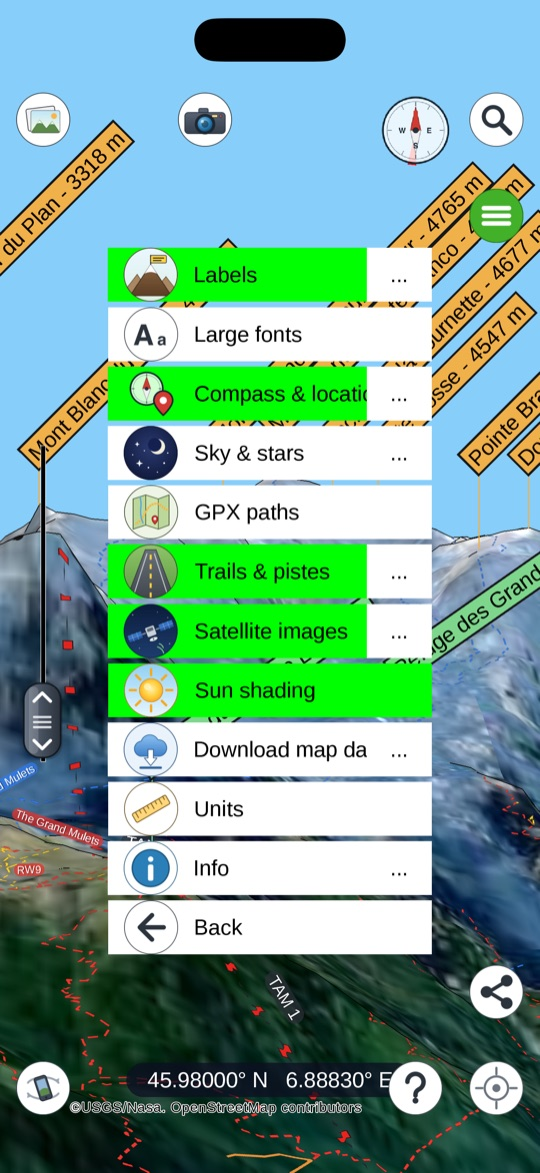
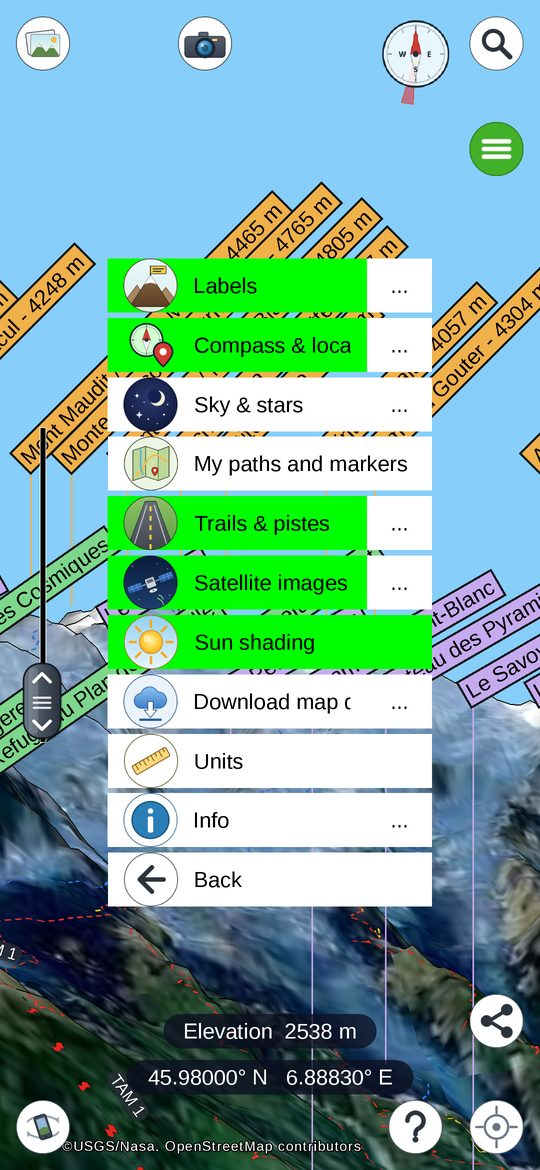
"Large fonts" moves into the Labels submenu; the tutorial shows the current menu
The size of the labels' text belongs with the labels it sizes. It is the last
option of the Labels submenu now, before Back, and the main menu has one
button fewer.

The tutorial's options slide showed a menu two versions old ("Large fonts" in
the main menu, "GPX paths"). The new picture is the same view, Mont Blanc from
Lac Blanc, rendered by the app on LANDSAT imagery (credited USGS/Nasa), with
the menu as it is now.

Claude-Session: https://claude.ai/code/session_018EoCeqjtKdapkfrYRrfFrS

diff --git a/core/src/main/java/com/peaknav/viewer/panes/OptionPane.java b/core/src/main/java/com/peaknav/viewer/panes/OptionPane.java
@@ -506,7 +506,7 @@ public class OptionPane {
         table.center();
         table.setFillParent(true);
 
-        List<Table> buttons = new ArrayList<>(9);
+        List<Table> buttons = new ArrayList<>(10);
 
         ImageTextButtonOptionPane checkBoxShowPeaks = getC().widgetGetter.getImageTextButton(
                 "icons/icon_checkbox_peak_names.png", s("Peak_names"), true);
@@ -566,6 +566,15 @@ public class OptionPane {
             P.persistRoadStyle();
         }));
         buttons.add(checkBoxRoadNames);
+
+        // The size of every label's text: with the labels it sizes, not in the main menu.
+        ImageTextButtonOptionPane checkBoxLargeFonts = getC().widgetGetter.getImageTextButton("icons/icon_checkbox_large_fonts.png", s("Large_fonts"), true);
+        addCheckingStateProperty(checkBoxLargeFonts, ()->P.getViewLargeFonts());
+        checkBoxLargeFonts.addClickListener(() -> changer.execute(() -> {
+            P.setViewLargeFonts(checkBoxLargeFonts.isChecked());
+            getC().O.iterateOverVisiblePoisUnstoppable(poiObject -> poiObject.drawLabel.updateLabelPolygonCoordinates());
+        }));
+        buttons.add(checkBoxLargeFonts);
 
         ImageTextButtonOptionPane back = getC().widgetGetter.getImageTextButton(
                 "icons/icon_back.png", s("Back"), false);
@@ -1665,13 +1674,6 @@ public class OptionPane {
         tableLabels.add(buttonLabelsOptions).width(buttonWidth * 0.2f).height(height);
         buttons.add(tableLabels);
 
-        ImageTextButtonOptionPane checkBoxLargeFonts = getC().widgetGetter.getImageTextButton("icons/icon_checkbox_large_fonts.png", s("Large_fonts"), true);
-        addCheckingStateProperty(checkBoxLargeFonts, ()->P.getViewLargeFonts());
-        checkBoxLargeFonts.addClickListener(() -> changer.execute(() -> {
-            P.setViewLargeFonts(checkBoxLargeFonts.isChecked());
-            getC().O.iterateOverVisiblePoisUnstoppable(poiObject -> poiObject.drawLabel.updateLabelPolygonCoordinates());
-        }));
-        buttons.add(checkBoxLargeFonts);
 
         // Compass & location: master on/off plus a "..." submenu (coordinates, horizon
         // markers, corner rose) - the same composite scheme as the sky row below.
